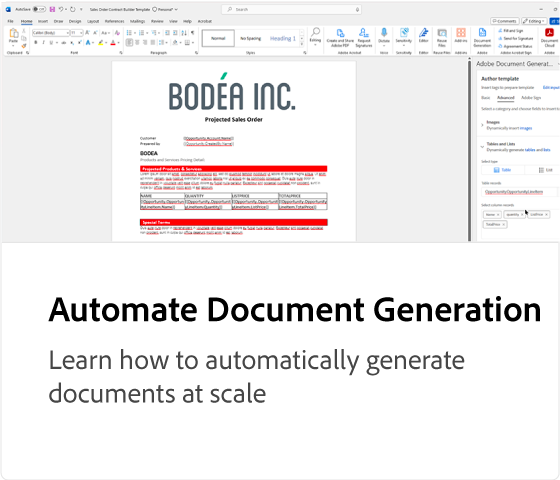
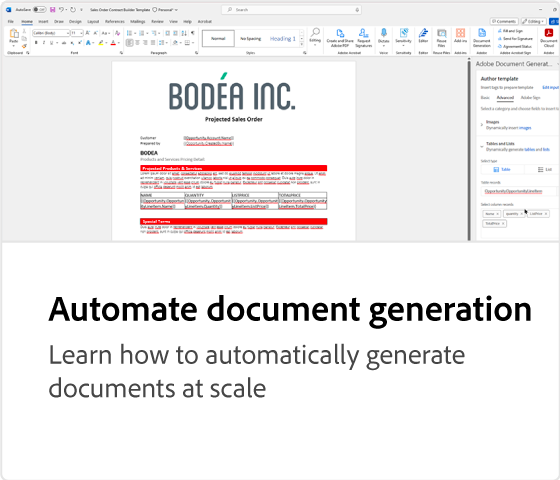
Automate content extraction tutorial

diff --git a/help/pdfextract/overview-extract.md b/help/pdfextract/overview-extract.md
@@ -20,6 +20,11 @@ Unlock the structure and content elements of any PDF with a web service powered 
 <table style="table-layout:fixed">
 <tr>
  <td>
+   <a href="automate-content-extraction.md">
+      <img alt="Automate content extraction" src="assets/automate-content-extraction.png" />
+   </a>
+  </td>
+  <td>
    <a href="https://experienceleague.adobe.com/docs/adobe-developers-live-events/events/2021/oct2021/parsing-pdf.html">
       <img alt="Parsing PDF: As easy as working with JSON data with PDF Extract API" src="assets/ParsingPDF_1280.png" />
    </a>
@@ -27,11 +32,6 @@ Unlock the structure and content elements of any PDF with a web service powered 
    <a href="https://experienceleague.adobe.com/docs/adobe-developers-live-events/events/2021/oct2021/parsing-pdf.html"><strong>Parsing PDF: As easy as working with JSON data with PDF Extract API</strong></a>
     </div>
     <em>Learn how the PDF Extract service in Adobe PDF Services API can make parsing PDF as easy as parsing JSON</em>
-    <br>
-  </td>
-  <td>
-    <img alt="Spacer" src="../assets/WhiteBanner_Placeholder.png" />
-    <div>
     <br>
   </td>
   <td>

diff --git a/help/TOC.md b/help/TOC.md
@@ -24,7 +24,7 @@ auto-video-transcripts: true
   + [Using Adobe PDF Services API to OCR PDF files](pdfservices/ocr.md)
 + Document Generation API {#docgen}
   + [Overview](docgen/overview-docgen.md)
-  + [Automate Document Generation](docgen/automate-doc-gen.md)
+  + [Automate document generation](docgen/automate-doc-gen.md)
   + Creating templates {#docgentemplates}
     + [Overview of the Adobe Document Generation Tagger](docgen/taggeroverview.md)
     + [Adding text tags](docgen/taggeraddtexttags.md)
@@ -34,6 +34,7 @@ auto-video-transcripts: true
     + [Setting conditional content](docgen/taggerconditional.md)
 + PDF Extract API {#pdfextract}
   + [Overview](pdfextract/overview-extract.md)
+  + [Automate content extraction](pdfextract/automate-content-extraction.md)
 + PDF Embed API {#pdfembed}
   + [Overview](pdfembed/overview-embed.md)
   + [Control your PDF online experience and gather analytics](pdfembed/controlpdfexperience.md)

diff --git a/help/pdfextract/automate-content-extraction.md b/help/pdfextract/automate-content-extraction.md
@@ -1,0 +1,14 @@
+---
+title: Automate Content Extraction
+description: Learn how to automate the extraction of content from a PDF document using the PDF Extract API
+feature: Document Generation API
+role: Developer
+level: Beginner
+type: Tutorial
+jira: KT-15032
+---
+# Automate content extraction
+
+Learn how to automate the extraction of content from a PDF document using the PDF Extract API. Extracting PDF content helps unlock critical business data, which can then be used for a variety of downstream processes.
+
+>[!VIDEO](https://video.tv.adobe.com/v/3428294?hidetitle=true)

diff --git a/help/docgen/automate-doc-gen.md b/help/docgen/automate-doc-gen.md
@@ -8,7 +8,7 @@ type: Tutorial
 jira: KT-15030
 exl-id: fca9c193-0d0c-4775-98b4-cd048fc97969
 ---
-# Automate Document Generation
+# Automate document generation
 
 Learn how to automatically generate documents at scale by calling the Document Generation API using the Adobe PDF Services Connector in Microsoft Power Automate.
 

diff --git a/help/docgen/overview-docgen.md b/help/docgen/overview-docgen.md
@@ -25,7 +25,7 @@ The Document Generation API creates PDF and Word documents from Word templates a
       <img alt="Automate Document Generation" src="assets/automate-doc-gen.png" />
    </a>
   </td>
-    <td>
+  <td>
     <img alt="Spacer" src="../assets/WhiteBanner_Placeholder.png" />
     <div>
     <br>
